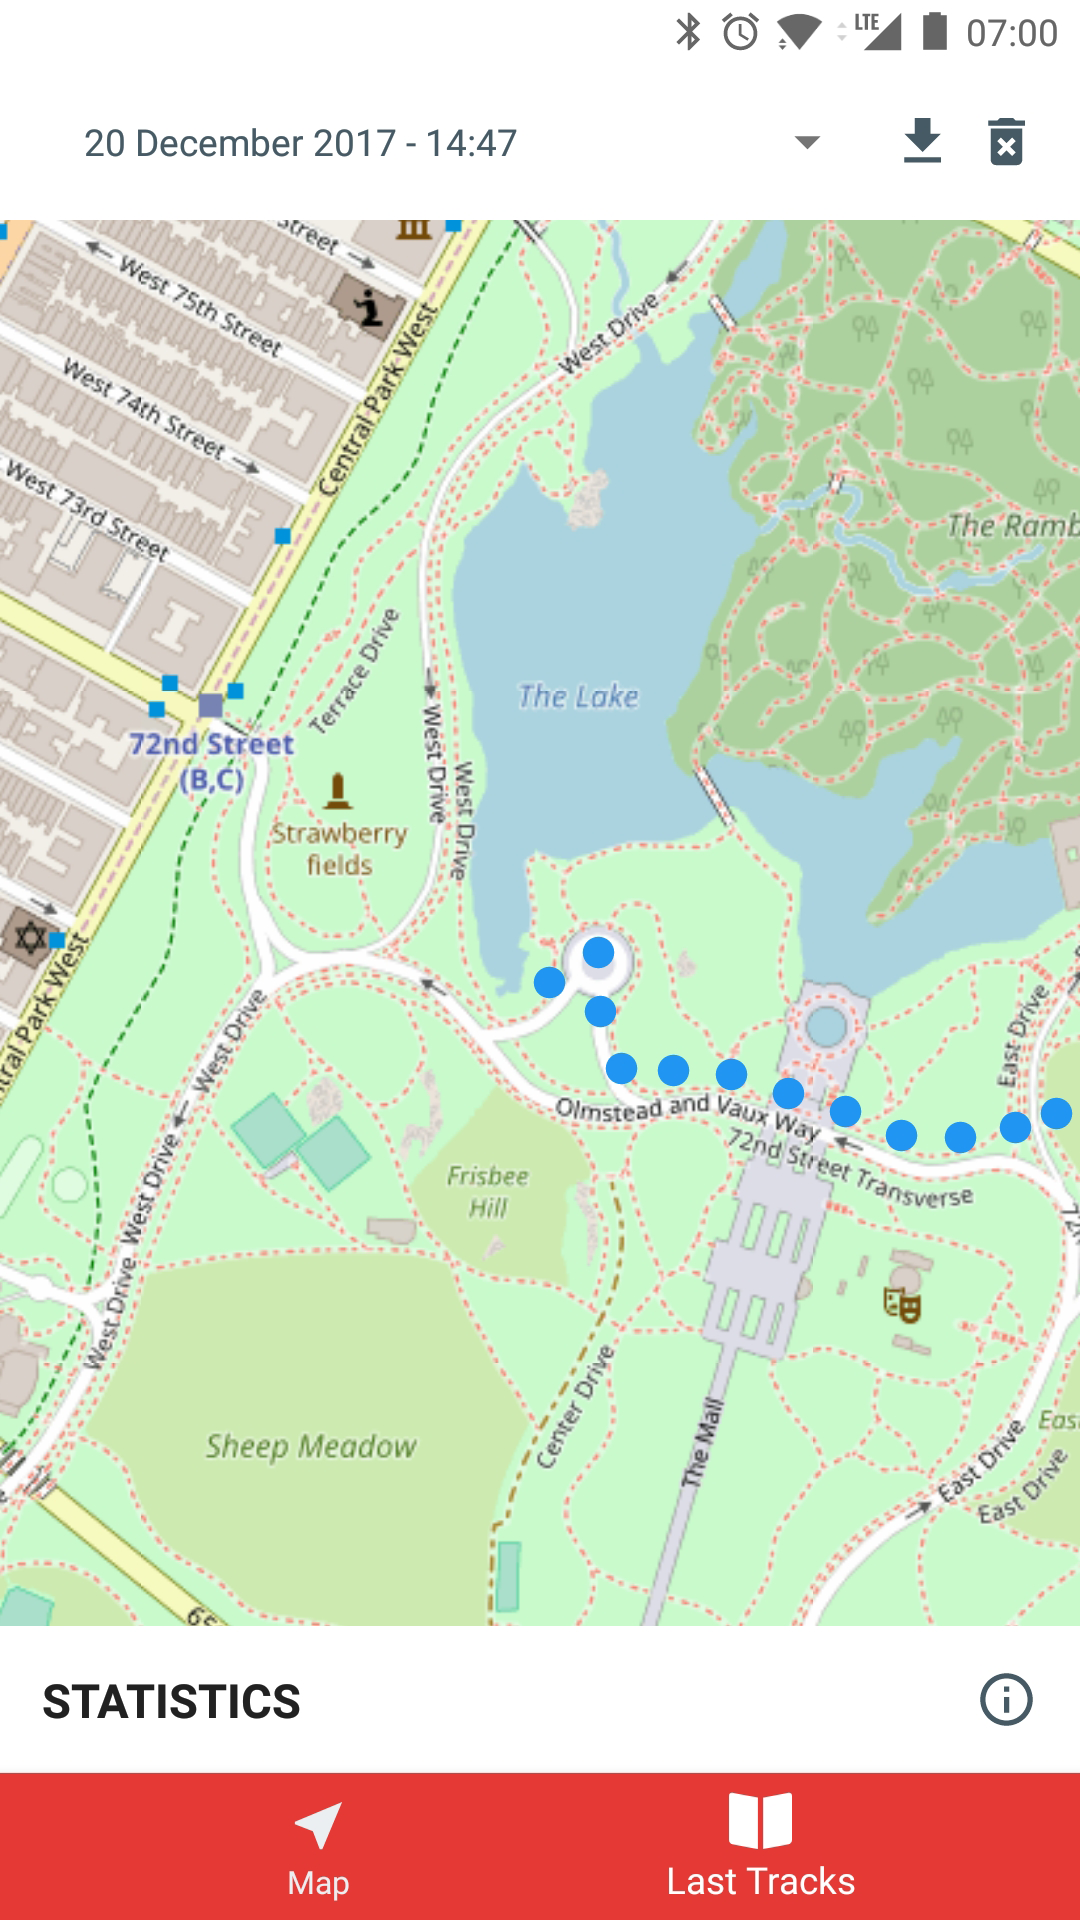
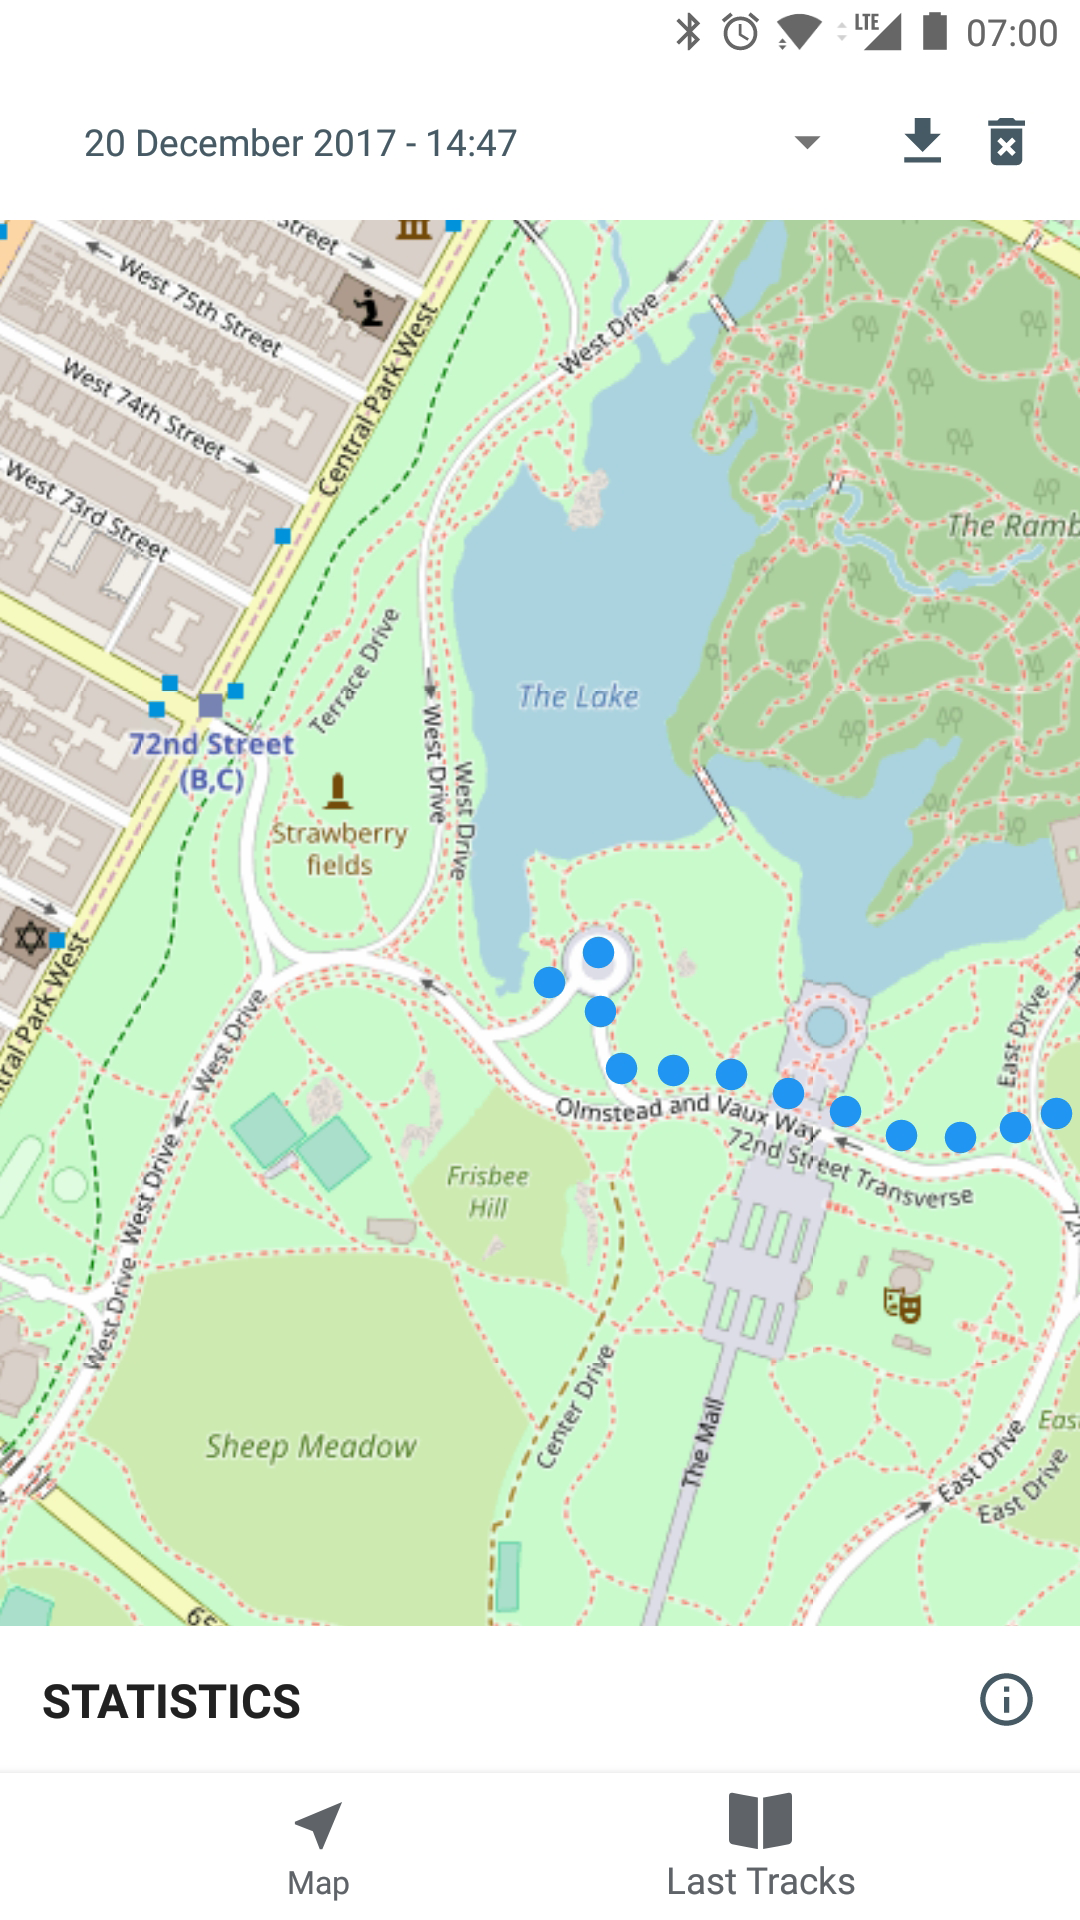
minor theme adjustments and new screen shots

Changed region(s): [[0.0, 0.9062, 1.0, 1.0]]

diff --git a/README.md b/README.md
@@ -66,8 +66,8 @@ Trackbook uses [osmdroid](https://github.com/osmdroid/osmdroid), which caches ma
 
 Screenshots (v1.1)
 ------------------
-[<img src="https://user-images.githubusercontent.com/9103935/34250760-22dd45e8-e63e-11e7-8e78-9d928470e92a.png" width="240">](https://user-images.githubusercontent.com/9103935/34250760-22dd45e8-e63e-11e7-8e78-9d928470e92a.png)
-[<img src="https://user-images.githubusercontent.com/9103935/34250761-22ff00b6-e63e-11e7-974a-47c238d477e0.png" width="240">](https://user-images.githubusercontent.com/9103935/34250761-22ff00b6-e63e-11e7-974a-47c238d477e0.png)
+[<img src="https://raw.githubusercontent.com/y20k/trackbook/master/fastlane/metadata/en-US/phoneScreenshots/p1.png" width="240">](https://raw.githubusercontent.com/y20k/trackbook/master/fastlane/metadata/en-US/phoneScreenshots/p1.png)
+[<img src="https://raw.githubusercontent.com/y20k/trackbook/master/fastlane/metadata/en-US/phoneScreenshots/p2.png" width="240">](https://raw.githubusercontent.com/y20k/trackbook/master/fastlane/metadata/en-US/phoneScreenshots/p2.png)
 
-[<img src="https://user-images.githubusercontent.com/9103935/34250762-2316aa90-e63e-11e7-9bcb-a230467fc192.png" width="240">](https://user-images.githubusercontent.com/9103935/34250762-2316aa90-e63e-11e7-9bcb-a230467fc192.png)
-[<img src="https://user-images.githubusercontent.com/9103935/34250763-232f7714-e63e-11e7-92bf-1fda9442e443.png" width="240">](https://user-images.githubusercontent.com/9103935/34250763-232f7714-e63e-11e7-92bf-1fda9442e443.png)
+[<img src="https://raw.githubusercontent.com/y20k/trackbook/master/fastlane/metadata/en-US/phoneScreenshots/p3.png" width="240">](https://raw.githubusercontent.com/y20k/trackbook/master/fastlane/metadata/en-US/phoneScreenshots/p3.png)
+[<img src="https://raw.githubusercontent.com/y20k/trackbook/master/fastlane/metadata/en-US/phoneScreenshots/p4.png" width="240">](https://raw.githubusercontent.com/y20k/trackbook/master/fastlane/metadata/en-US/phoneScreenshots/p4.png)
